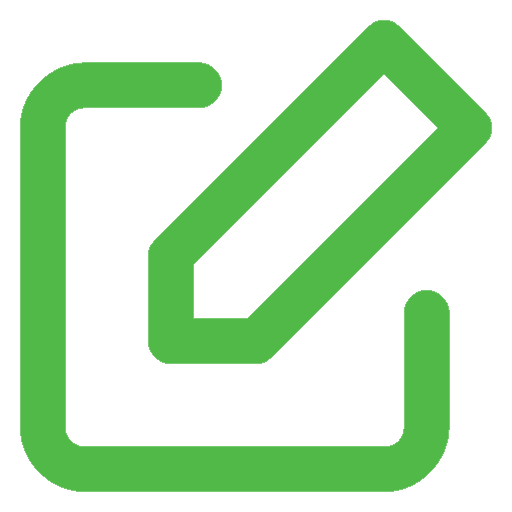
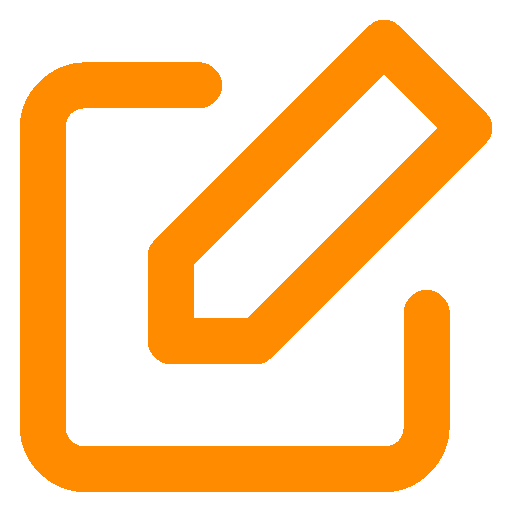
Refactor
Made sure search is working correctly & refactored a bit around it, colored images to fit the website better.

diff --git a/js/textSearch.js b/js/textSearch.js
@@ -36,18 +36,21 @@ class searchObj {
         this.searchedText.replace(regexExpression, this.replaceValues[replaceValuesArrayIndex][ENUM.regexChangeToIndex]);
     }
 
-    SearchedContent() {    
-        for (let rowIndex = 0; rowIndex < this.tableRows.length; rowIndex++)
-            if (this.tableRows[rowIndex].id == "")
-                this.showOrHideSearchedContent(rowIndex);
+    SearchedContent() {
+        if (this.searchedText.length == 0)
+            this.showAll();
+        else
+            for (let rowIndex = 0; rowIndex < this.tableRows.length; rowIndex++)
+                if (this.tableRows[rowIndex].id == "")
+                    this.showOrHideSearchedContent(rowIndex);
+    }
+
+    showAll() {
+        for (let rowIndex = 0; rowIndex < this.tableRows.length; rowIndex += 2)
+            this.tableRows[rowIndex].style.display = '';
     }
 
     showOrHideSearchedContent(rowIndex) {
-        if (this.searchedText.length == 0) {
-            for (let rowIndex = 0; rowIndex < this.tableRows.length; rowIndex += 2) {
-                this.tableRows[rowIndex].style.display = '';
-            }
-        }
         this.isTextInContent(rowIndex) ? this.tableRows[rowIndex].style.display = '' : this.hideIrrelevantResult(rowIndex);
     }
 
